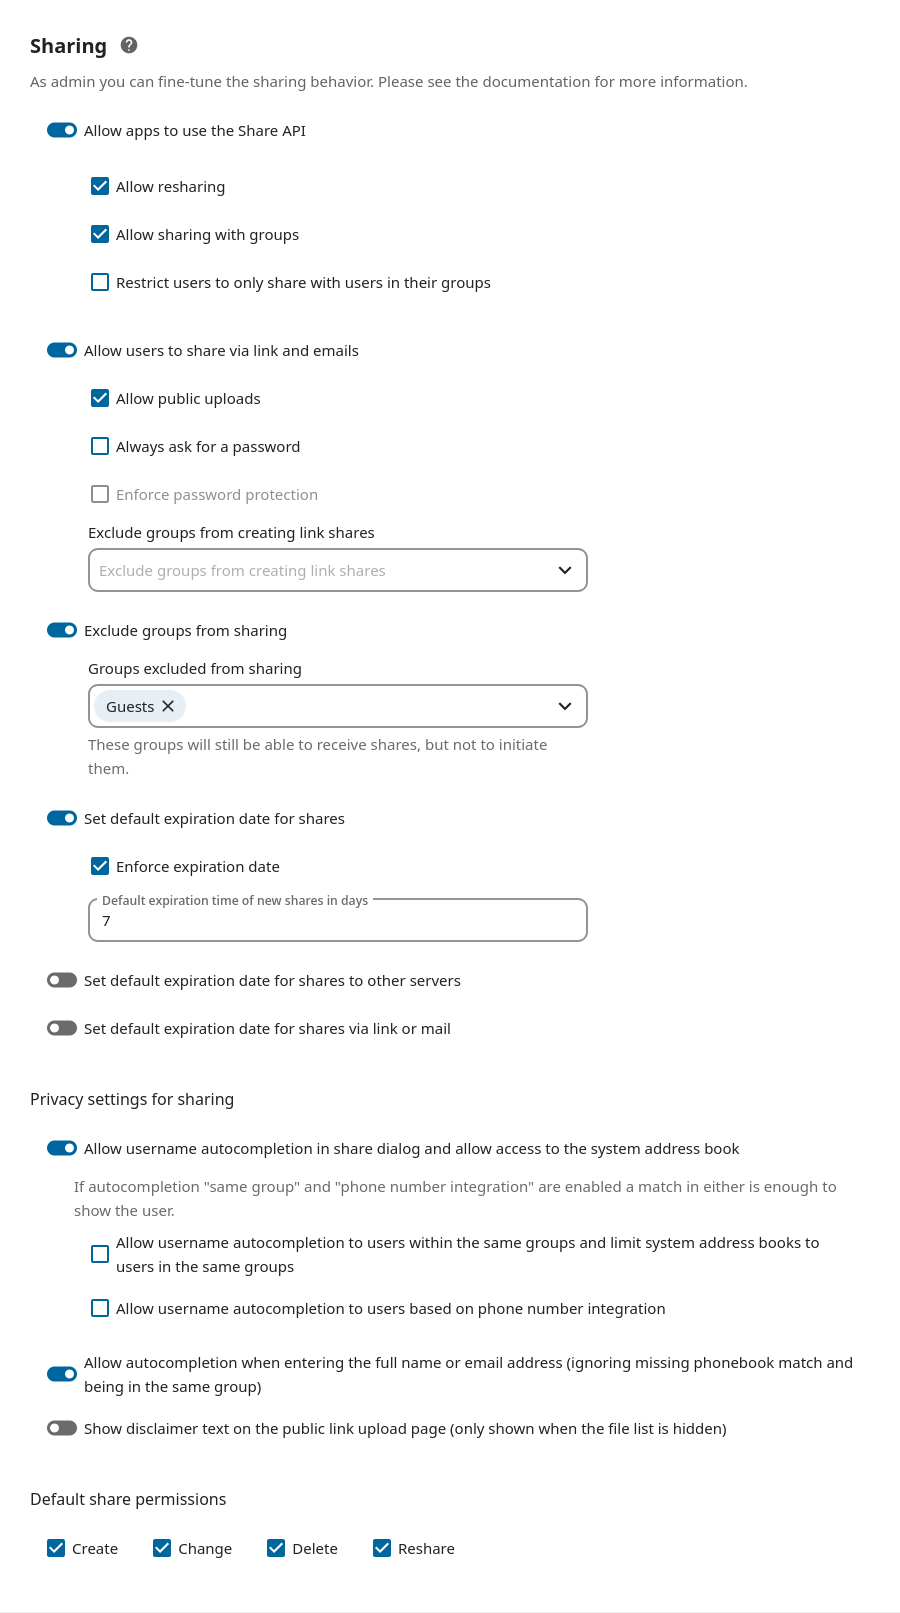
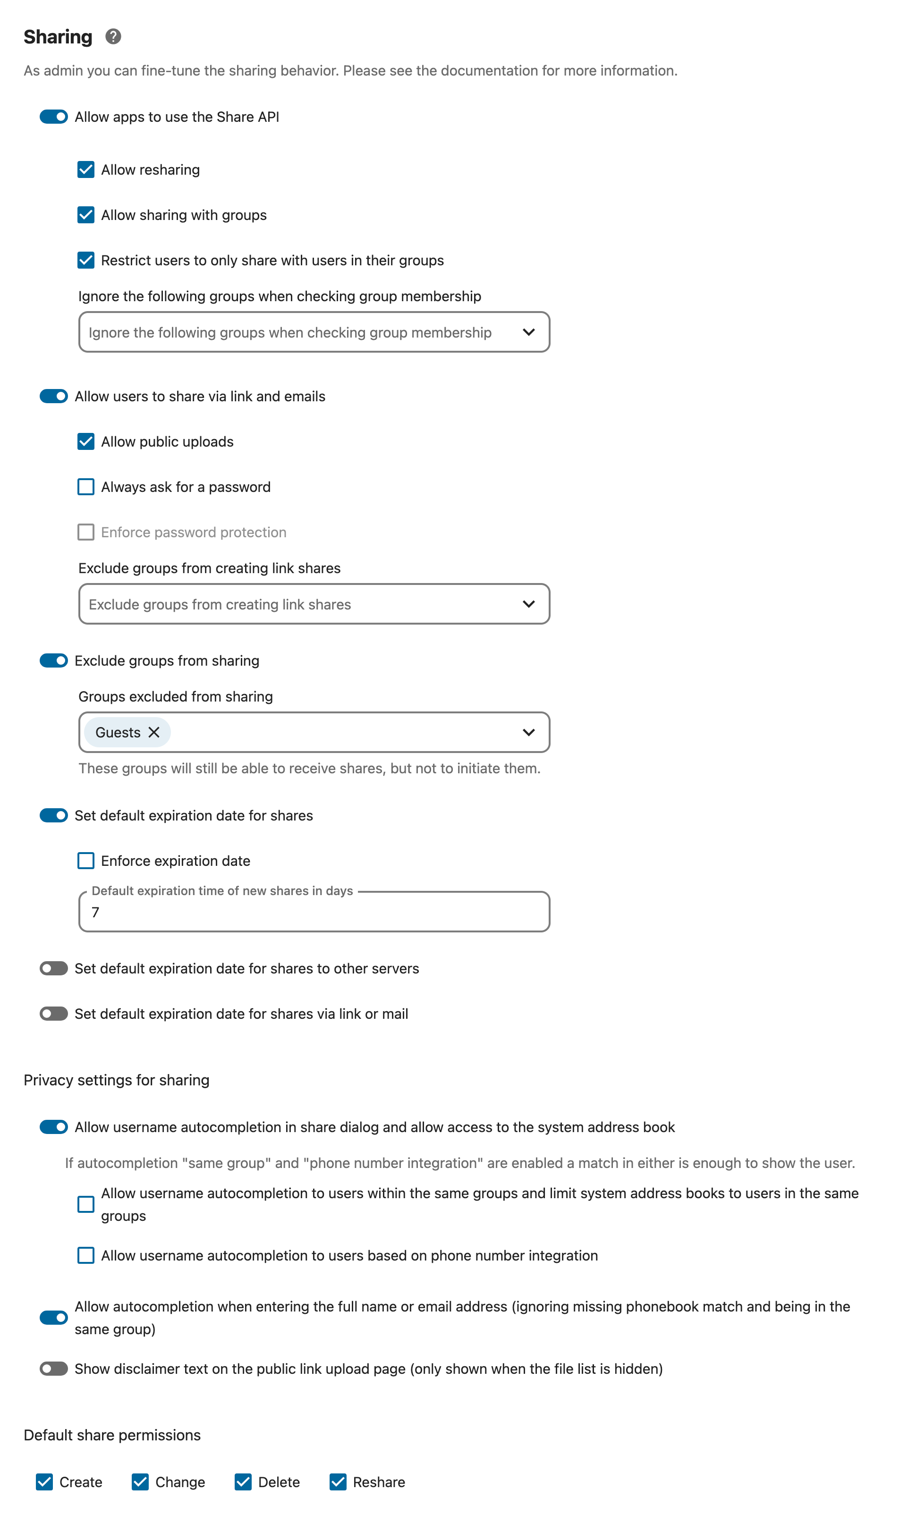
Feature #37677 documentation : Exclude some groups from sharing with users (PR#38173)

Changed region(s): [[0.0311, 0.0, 0.9333, 0.9875], [0.6844, 0.8949, 0.7156, 0.9258]]

diff --git a/admin_manual/configuration_files/file_sharing_configuration.rst b/admin_manual/configuration_files/file_sharing_configuration.rst
@@ -18,7 +18,10 @@ Configure your sharing policy on your Admin page in the Sharing section.
   * Check ``Allow resharing`` to enable users to re-share files shared with them.
   * Check ``Allow sharing with groups`` to enable users to share with groups.
   * Check ``Restrict users to only share with users in their groups`` to confine
-    sharing within group memberships.
+    sharing within group memberships. When you check this, you'll
+    get an optional dropdown list of ignored groups when checking group membership.
+    Type any group name to search for.
+    Ignored groups are not used to determine if users may share with each others.
 
     .. note:: This setting does not apply to the Federated Cloud sharing
        feature. If :doc:`Federated Cloud Sharing
